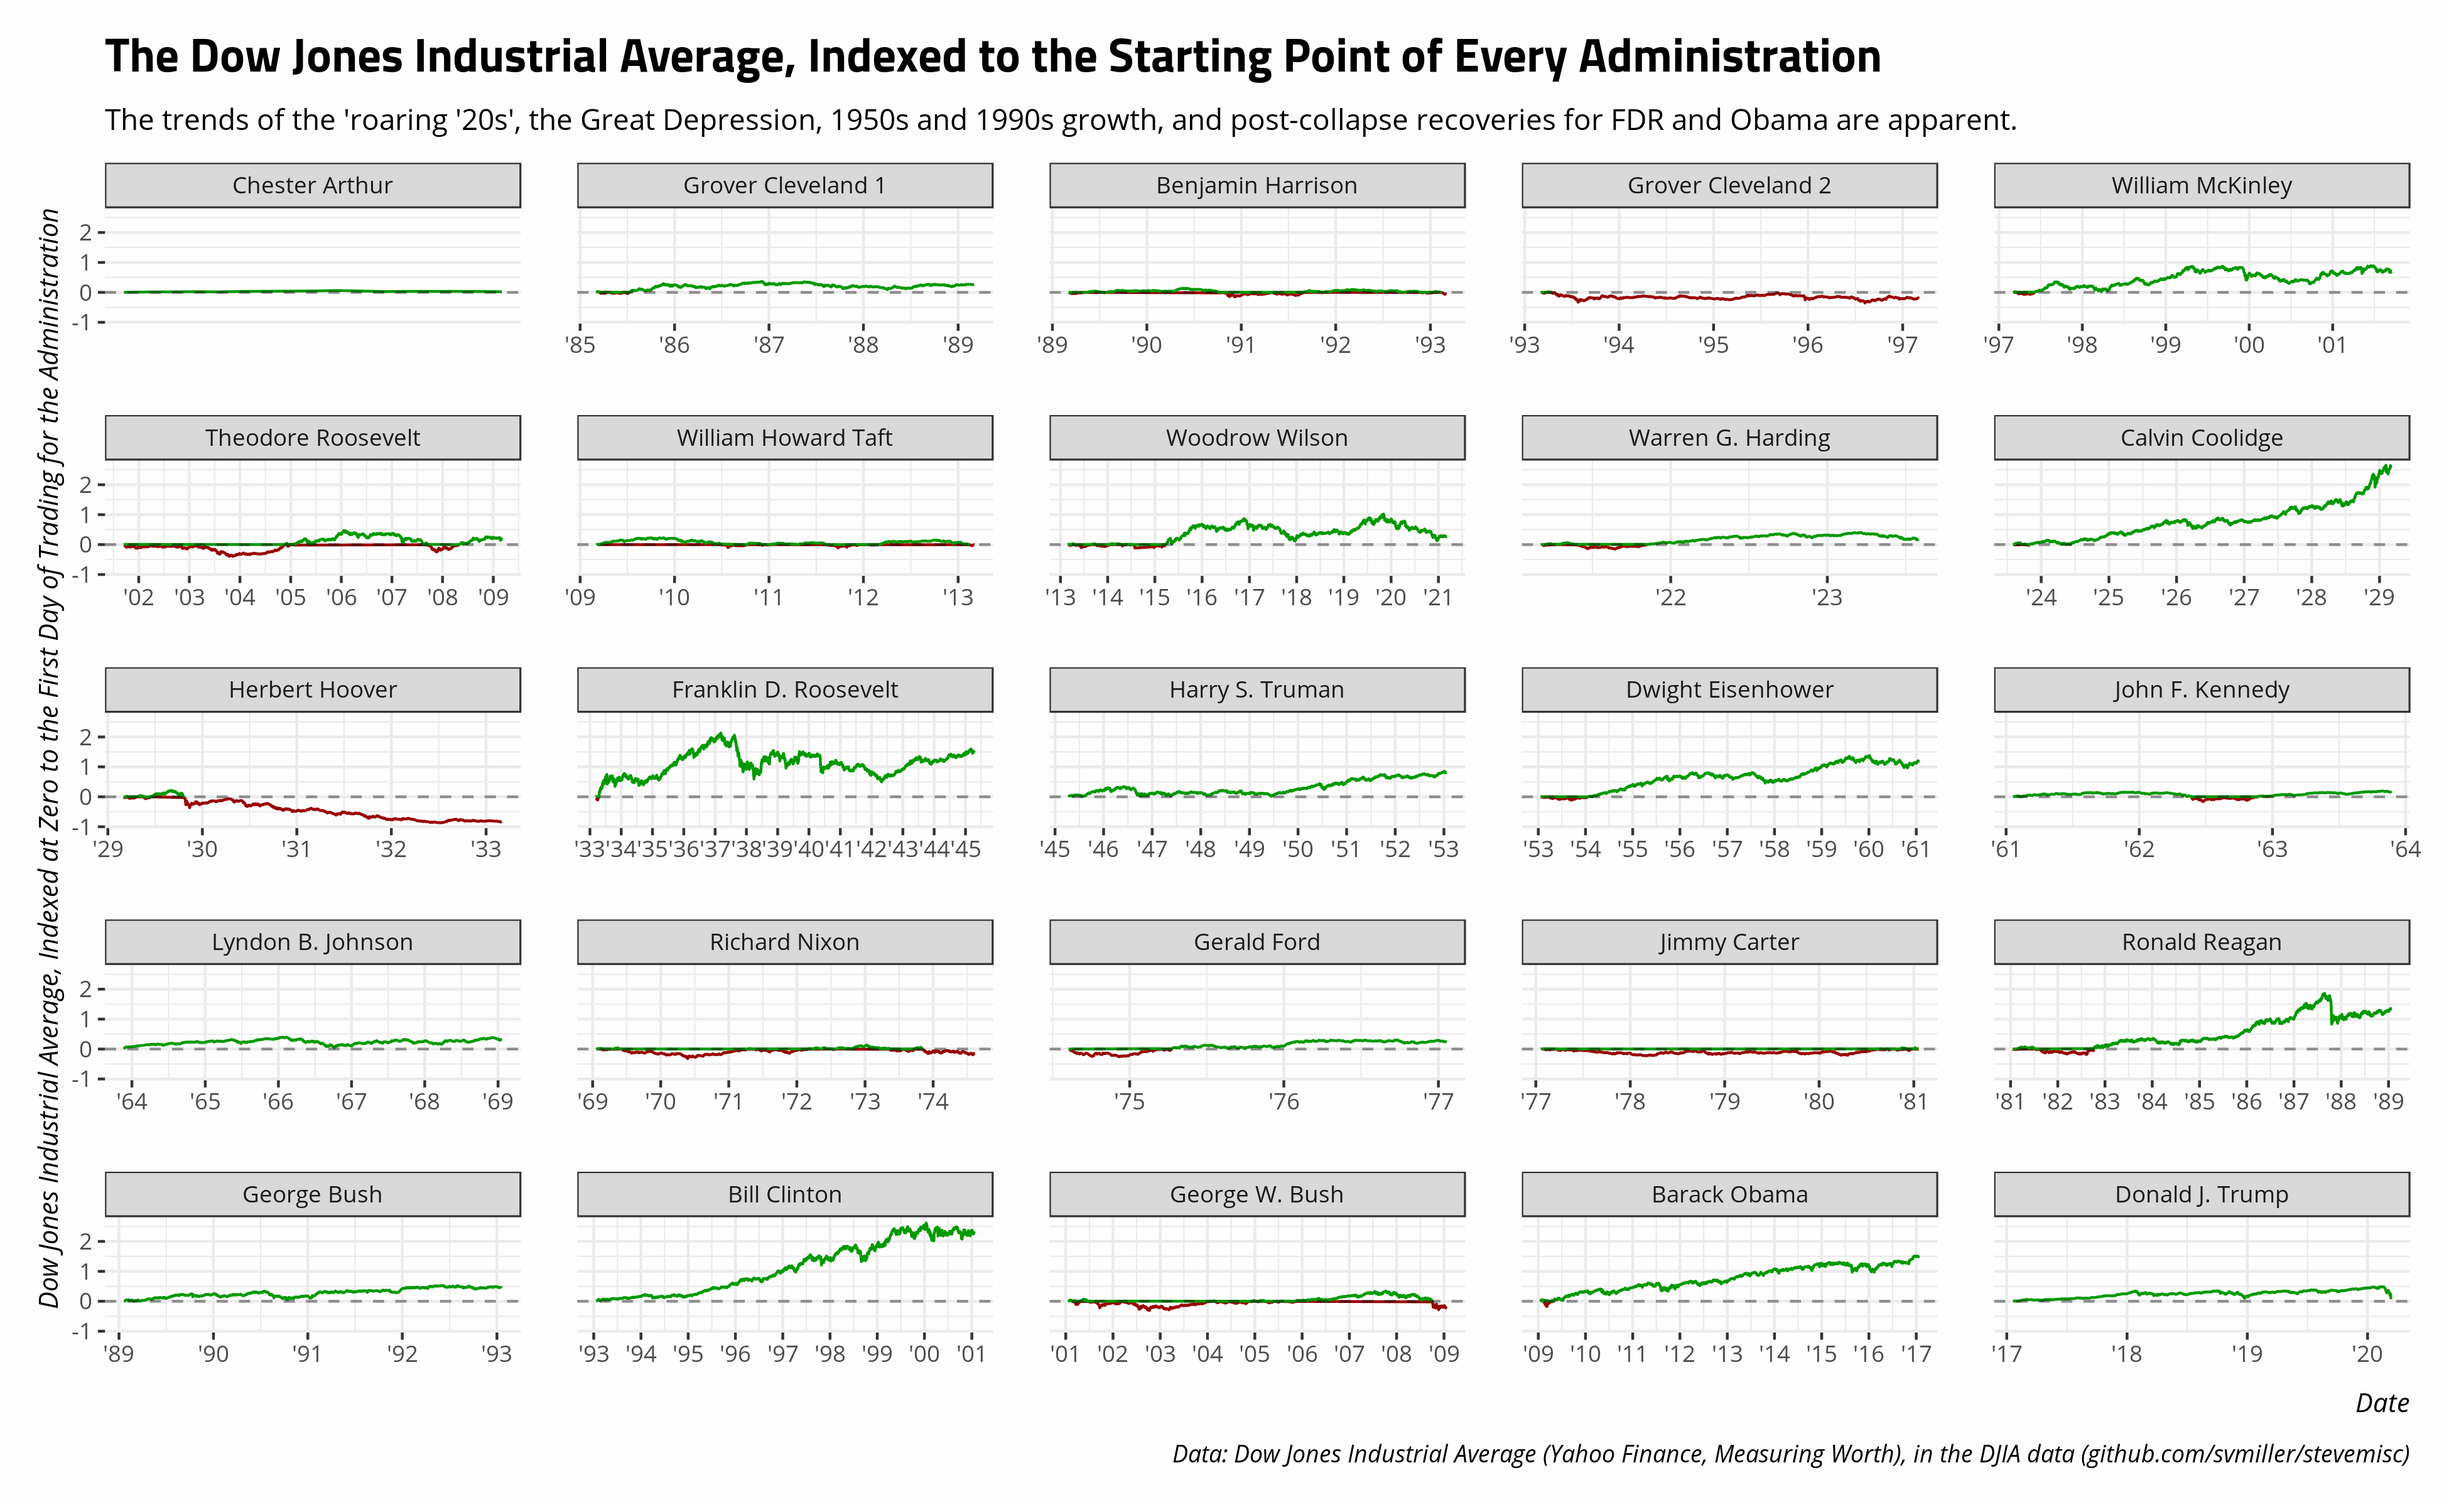
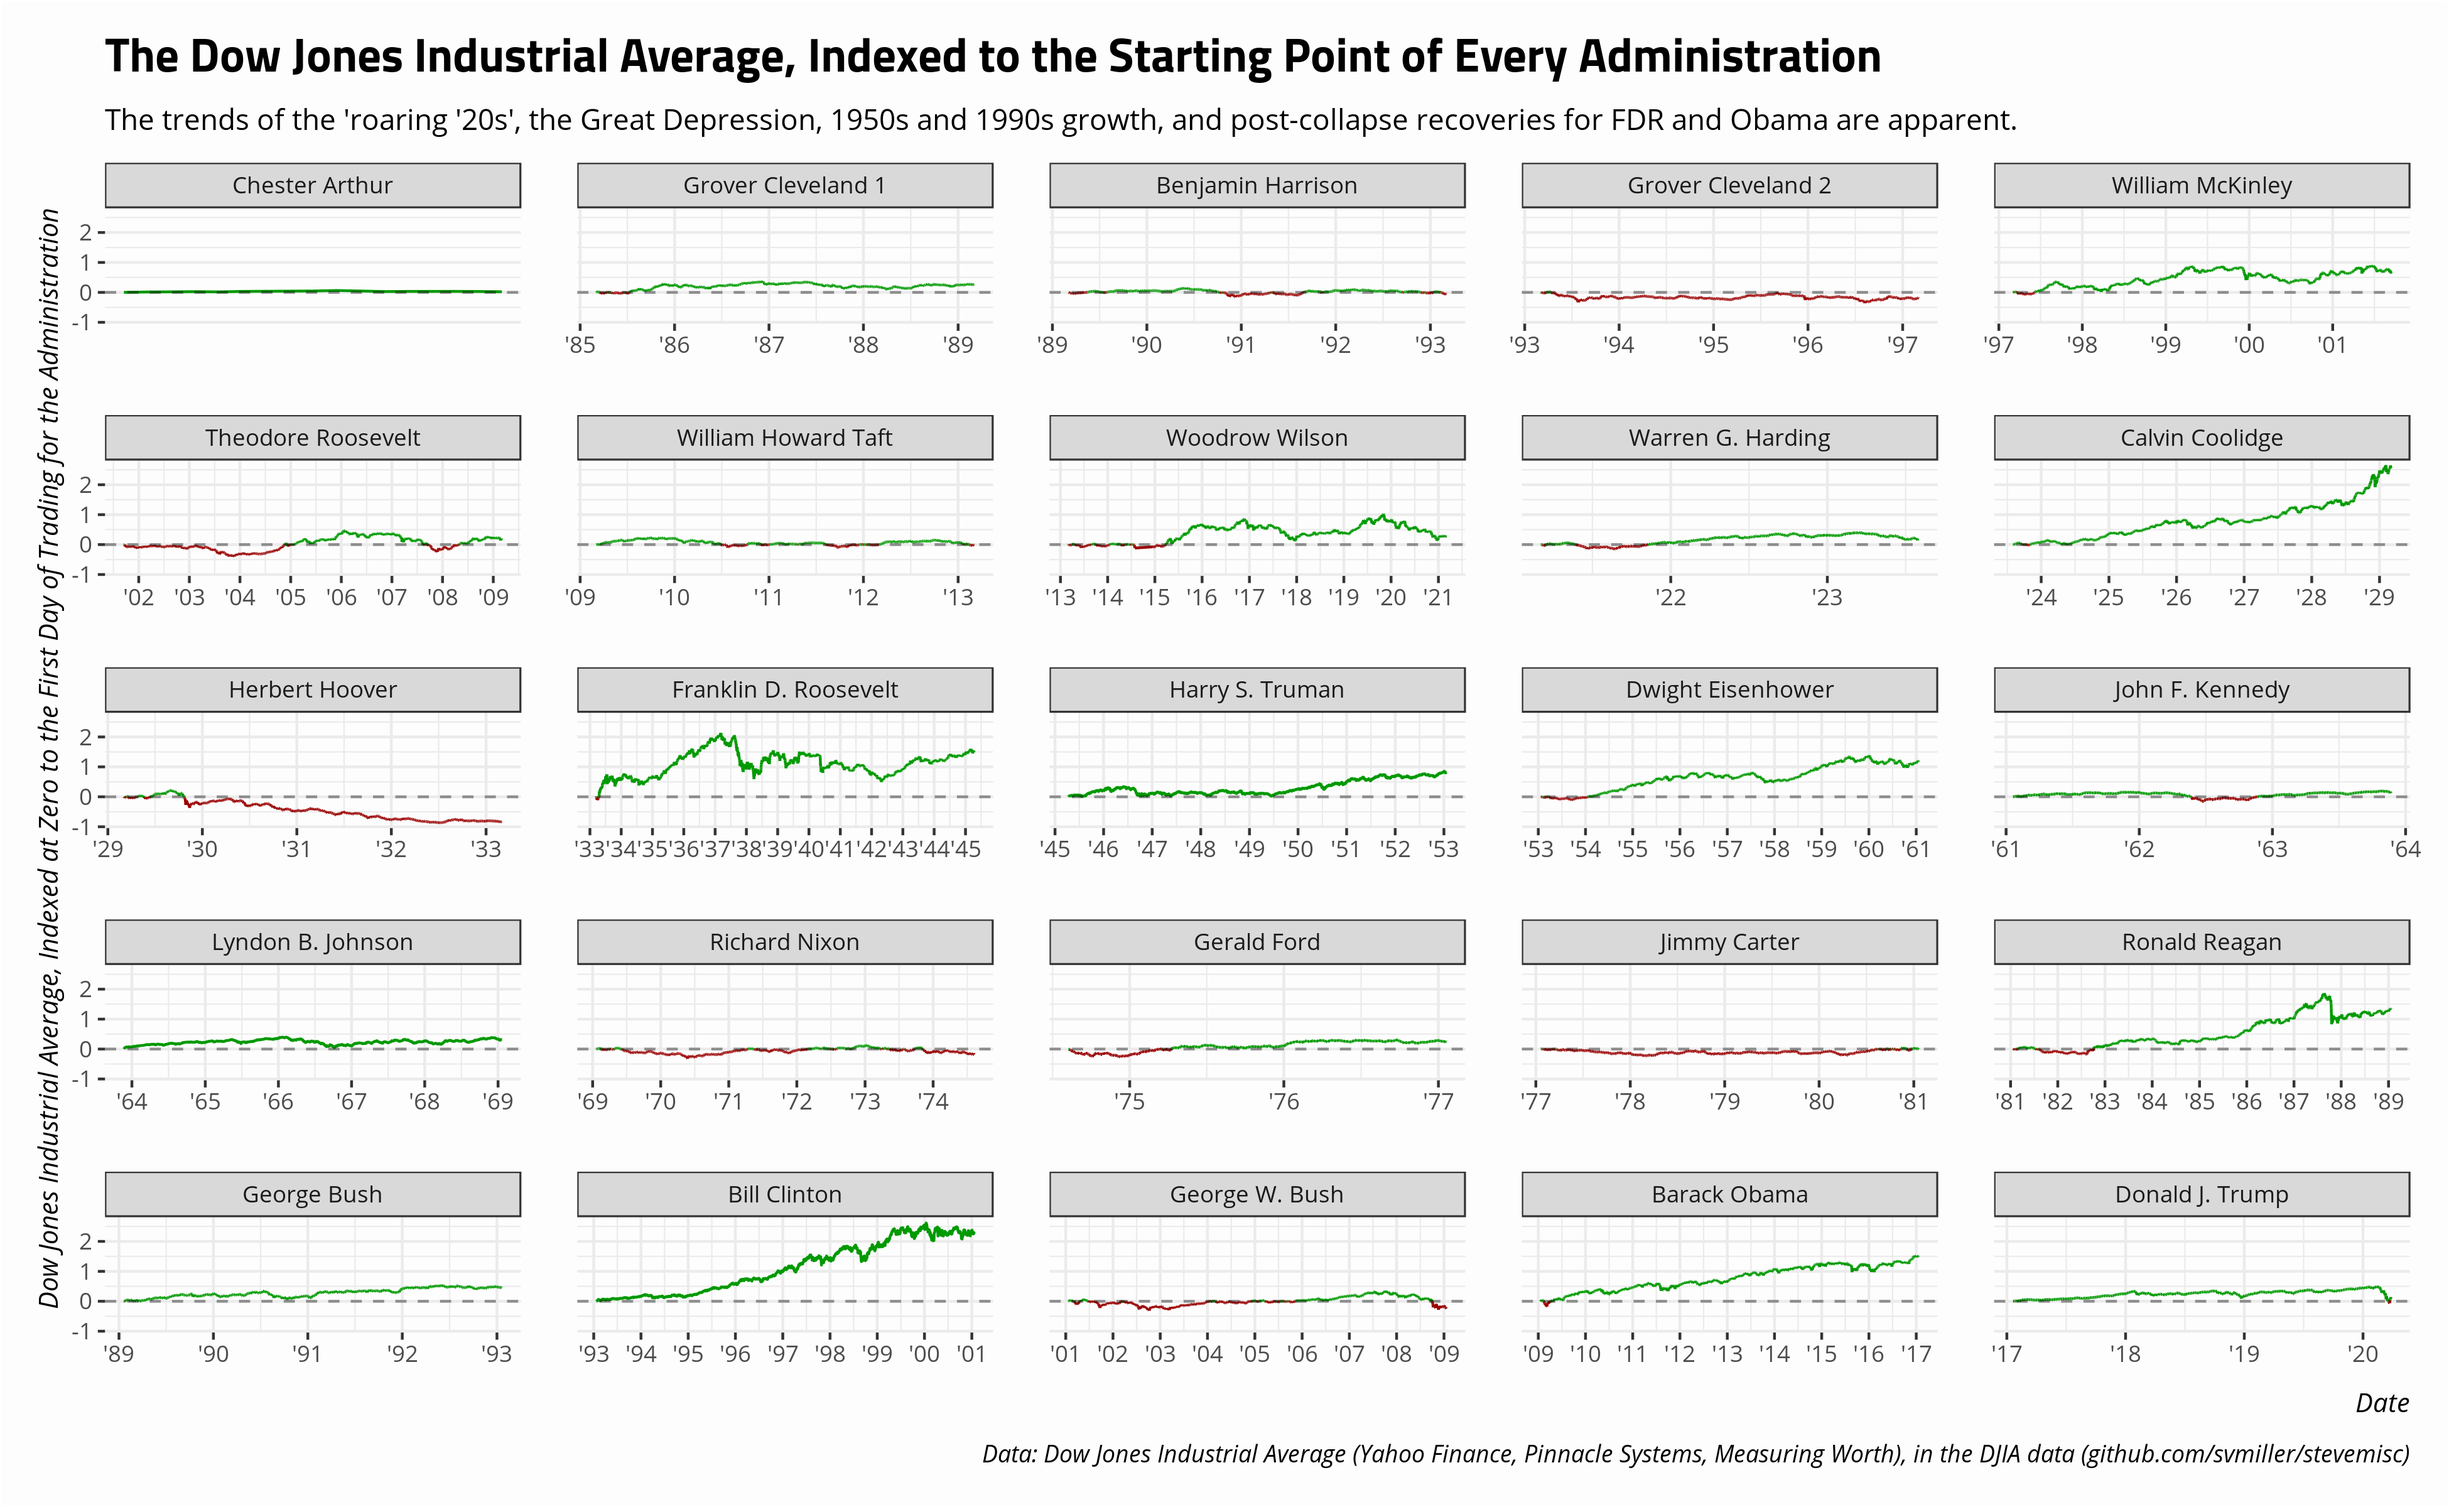
update

diff --git a/_posts/2020-03-12-dow-jones-no-good-very-bad-day.md b/_posts/2020-03-12-dow-jones-no-good-very-bad-day.md
@@ -19,7 +19,7 @@ image: "dow-jones-dude.jpg"
 
 {% include image.html url="/images/dow-jones-dude.jpg" caption="That feeling when you realize you're not going to retire until your 70s. (Photo: Spencer Platt/Getty Images)" width=400 align="right" %}
 
-*Last updated: March 27, 2020* 
+*Last updated: March 28, 2020* 
 
 [What he said](https://knowyourmeme.com/memes/shits-on-fire-yo).
 
@@ -77,21 +77,21 @@ Data %>%
   mutate(index = (djia/first(djia))-1) %>% 
   ungroup() %>%
   mutate(cat = ifelse(index < 0, "Negative", "Positive")) %>%
-  ggplot(.,aes(date, index,color=cat)) + 
+  ggplot(.,aes(date, index,color=(index < 0))) + 
   theme_steve_web() + post_bg() +
-  geom_line() +
+  geom_line(aes(group=1)) +
   geom_hline(yintercept = 0, linetype="dashed", alpha=0.4) +
   # I think '%y is the best I can do because of FDR's tenure.
   scale_x_date(date_labels = "'%y", 
                date_breaks = "1 year") +
   facet_wrap(~president, scales = "free_x") +
-  scale_color_manual(values=c("#990000", "#009900")) +
+  scale_color_manual(values=c("#009900", "#990000")) +
   theme(legend.position = "none") +
   labs(title = "The Dow Jones Industrial Average, Indexed to the Starting Point of Every Administration",
        subtitle = "The trends of the 'roaring '20s', the Great Depression, 1950s and 1990s growth, and post-collapse recoveries for FDR and Obama are apparent.",
        x = "Date",
        y = "Dow Jones Industrial Average, Indexed at Zero to the First Day of Trading for the Administration",
-       caption = "Data: Dow Jones Industrial Average (Yahoo Finance, Measuring Worth), in the DJIA data (github.com/svmiller/stevemisc)")
+       caption = "Data: Dow Jones Industrial Average (Yahoo Finance, Pinnacle Systems, Measuring Worth), in the DJIA data (github.com/svmiller/stevemisc)")
 ```
 
 ![plot of chunk dow-jones-industrial-average-by-presidency](/images/dow-jones-industrial-average-by-presidency-1.png)
@@ -137,7 +137,7 @@ Data %>%
    <td style="text-align:left;"> 1987-10-19 </td>
    <td style="text-align:left;"> Ronald Reagan </td>
    <td style="text-align:center;"> 1738.74 </td>
-   <td style="text-align:center;"> 2246.74 </td>
+   <td style="text-align:center;"> 2246.73 </td>
    <td style="text-align:center;"> -22.61 </td>
   </tr>
   <tr>
@@ -248,7 +248,7 @@ Data %>%
    <td style="text-align:left;"> 1987-10-19 </td>
    <td style="text-align:left;"> Ronald Reagan </td>
    <td style="text-align:center;"> 1738.74 </td>
-   <td style="text-align:center;"> 2246.74 </td>
+   <td style="text-align:center;"> 2246.73 </td>
    <td style="text-align:center;"> -22.61 </td>
    <td style="text-align:center;"> 1 </td>
   </tr>
@@ -319,8 +319,8 @@ Data %>%
   <tr>
    <td style="text-align:left;"> 1997-10-27 </td>
    <td style="text-align:left;"> Bill Clinton </td>
-   <td style="text-align:center;"> 7161.15 </td>
-   <td style="text-align:center;"> 7715.41 </td>
+   <td style="text-align:center;"> 7161.20 </td>
+   <td style="text-align:center;"> 7715.40 </td>
    <td style="text-align:center;"> -7.18 </td>
    <td style="text-align:center;"> 20 </td>
   </tr>
@@ -346,7 +346,7 @@ Data %>%
    <td style="text-align:center;"> 576.93 </td>
    <td style="text-align:center;"> 611.88 </td>
    <td style="text-align:center;"> -5.71 </td>
-   <td style="text-align:center;"> 49 </td>
+   <td style="text-align:center;"> 48 </td>
   </tr>
   <tr>
    <td style="text-align:left;"> 1946-09-03 </td>
@@ -386,7 +386,7 @@ Data %>%
    <td style="text-align:center;"> 35.89 </td>
    <td style="text-align:center;"> 37.44 </td>
    <td style="text-align:center;"> -4.15 </td>
-   <td style="text-align:center;"> 151 </td>
+   <td style="text-align:center;"> 154 </td>
   </tr>
   <tr>
    <td style="text-align:left;"> 1886-05-17 </td>
@@ -394,7 +394,15 @@ Data %>%
    <td style="text-align:center;"> 35.11 </td>
    <td style="text-align:center;"> 36.59 </td>
    <td style="text-align:center;"> -4.05 </td>
-   <td style="text-align:center;"> 168 </td>
+   <td style="text-align:center;"> 172 </td>
+  </tr>
+  <tr>
+   <td style="text-align:left;"> 1921-06-20 </td>
+   <td style="text-align:left;"> Warren G. Harding </td>
+   <td style="text-align:center;"> 64.90 </td>
+   <td style="text-align:center;"> 67.57 </td>
+   <td style="text-align:center;"> -3.95 </td>
+   <td style="text-align:center;"> 186 </td>
   </tr>
   <tr>
    <td style="text-align:left;"> 1974-11-18 </td>
@@ -402,15 +410,7 @@ Data %>%
    <td style="text-align:center;"> 624.92 </td>
    <td style="text-align:center;"> 647.61 </td>
    <td style="text-align:center;"> -3.50 </td>
-   <td style="text-align:center;"> 258 </td>
-  </tr>
-  <tr>
-   <td style="text-align:left;"> 1921-06-20 </td>
-   <td style="text-align:left;"> Warren G. Harding </td>
-   <td style="text-align:center;"> 64.90 </td>
-   <td style="text-align:center;"> 67.25 </td>
-   <td style="text-align:center;"> -3.49 </td>
-   <td style="text-align:center;"> 259 </td>
+   <td style="text-align:center;"> 265 </td>
   </tr>
   <tr>
    <td style="text-align:left;"> 1973-11-26 </td>
@@ -418,7 +418,7 @@ Data %>%
    <td style="text-align:center;"> 824.95 </td>
    <td style="text-align:center;"> 854.00 </td>
    <td style="text-align:center;"> -3.40 </td>
-   <td style="text-align:center;"> 277 </td>
+   <td style="text-align:center;"> 283 </td>
   </tr>
   <tr>
    <td style="text-align:left;"> 1979-10-09 </td>
@@ -426,7 +426,7 @@ Data %>%
    <td style="text-align:center;"> 857.59 </td>
    <td style="text-align:center;"> 884.04 </td>
    <td style="text-align:center;"> -2.99 </td>
-   <td style="text-align:center;"> 379 </td>
+   <td style="text-align:center;"> 389 </td>
   </tr>
   <tr>
    <td style="text-align:left;"> 1966-10-03 </td>
@@ -434,7 +434,7 @@ Data %>%
    <td style="text-align:center;"> 757.96 </td>
    <td style="text-align:center;"> 774.22 </td>
    <td style="text-align:center;"> -2.10 </td>
-   <td style="text-align:center;"> 951 </td>
+   <td style="text-align:center;"> 971 </td>
   </tr>
   <tr>
    <td style="text-align:left;"> 1885-02-27 </td>
@@ -442,7 +442,7 @@ Data %>%
    <td style="text-align:center;"> 31.77 </td>
    <td style="text-align:center;"> 32.33 </td>
    <td style="text-align:center;"> -1.75 </td>
-   <td style="text-align:center;"> 1431 </td>
+   <td style="text-align:center;"> 1438 </td>
   </tr>
 </tbody>
 </table>
@@ -543,7 +543,7 @@ You could also extend this approach to look at the worst 30-day trading windows 
 You can also drive the point home about how precarious our current situation is by flipping one line of script in the above R code that calculates the worst individual trading days in Dow Jones history. See the above code that reads? `arrange(percchange)`? Replace it with `arrange(-percchange)` to get the best individual days in Dow history. Here, we'll select the top 20.
 
 <table id="stevetable">
-<caption>The 20 Best Trading Days in Dow Jones History, Feb. 16, 1885 to March 12, 2020</caption>
+<caption>The 20 Best Trading Days in Dow Jones History, Feb. 16, 1885 to the Present</caption>
  <thead>
   <tr>
    <th style="text-align:left;"> Date </th>
@@ -699,5 +699,99 @@ You can also drive the point home about how precarious our current situation is 
 
 It's worth saying growth in trading is ideally supposed to be incremental over the long-run. Huge volatility in trading runs both ways, never seeming to coincide with something good on the balance.
 
+### Update for March 28, 2020
+
+You can also use these data to assess just how confident we should be in magnitude gains from Monday to Friday. For example, [multiple](https://www.barrons.com/articles/dow-jones-industrial-average-has-best-week-since-1938-time-to-go-shopping-for-stocks-51585354856) [outlets](https://www.forbes.com/sites/sergeiklebnikov/2020/03/27/stocks-have-best-week-since-1938-after-trump-signs-2-trillion-coronavirus-stimulus-bill/#6e69b2be5ae4) are claiming that this week is the best week for trading since 1938, notwithstanding the loss on Friday. Consider this summary from Barrons:
+
+> After the index’s eighth losing Friday in nine weeks, the Dow ended the week up 2,462.80 points, or 12.84%, to 21,636.78—its best week since 1938. The S&P 500 index gained 10.26%, to 2,541.47, and the Nasdaq Composite rose 9.05%, to 7502.38.
+
+Here's how you can assess that claim with some context (check [the file in the `_source` directory](https://github.com/svmiller/svmiller.github.io/blob/master/_source/2020-03-12-dow-jones-no-good-very-bad-day.Rmd) for full code).
+
+<table id="stevetable">
+<caption>The 10 Best Trading Weeks in Dow Jones History, Feb. 16, 1885 to the Present</caption>
+ <thead>
+  <tr>
+   <th style="text-align:left;"> President </th>
+   <th style="text-align:left;"> Week Starting </th>
+   <th style="text-align:center;"> DJIA (Start of the Week) </th>
+   <th style="text-align:center;"> DJIA (Close, Last Day of the Week) </th>
+   <th style="text-align:center;"> % Change </th>
+  </tr>
+ </thead>
+<tbody>
+  <tr>
+   <td style="text-align:left;"> Herbert Hoover </td>
+   <td style="text-align:left;"> 1932-08-01 </td>
+   <td style="text-align:center;"> 54.26 </td>
+   <td style="text-align:center;"> 62.60 </td>
+   <td style="text-align:center;"> 15.37 </td>
+  </tr>
+  <tr>
+   <td style="text-align:left;"> Franklin D. Roosevelt </td>
+   <td style="text-align:left;"> 1938-06-20 </td>
+   <td style="text-align:center;"> 113.23 </td>
+   <td style="text-align:center;"> 129.06 </td>
+   <td style="text-align:center;"> 13.98 </td>
+  </tr>
+  <tr>
+   <td style="text-align:left;"> Donald J. Trump </td>
+   <td style="text-align:left;"> 2020-03-23 </td>
+   <td style="text-align:center;"> 19173.98 </td>
+   <td style="text-align:center;"> 21636.78 </td>
+   <td style="text-align:center;"> 12.84 </td>
+  </tr>
+  <tr>
+   <td style="text-align:left;"> Franklin D. Roosevelt </td>
+   <td style="text-align:left;"> 1933-03-13 </td>
+   <td style="text-align:center;"> 53.84 </td>
+   <td style="text-align:center;"> 60.73 </td>
+   <td style="text-align:center;"> 12.80 </td>
+  </tr>
+  <tr>
+   <td style="text-align:left;"> Herbert Hoover </td>
+   <td style="text-align:left;"> 1932-07-25 </td>
+   <td style="text-align:center;"> 47.84 </td>
+   <td style="text-align:center;"> 53.89 </td>
+   <td style="text-align:center;"> 12.65 </td>
+  </tr>
+  <tr>
+   <td style="text-align:left;"> Herbert Hoover </td>
+   <td style="text-align:left;"> 1931-10-05 </td>
+   <td style="text-align:center;"> 92.77 </td>
+   <td style="text-align:center;"> 104.46 </td>
+   <td style="text-align:center;"> 12.60 </td>
+  </tr>
+  <tr>
+   <td style="text-align:left;"> Gerald Ford </td>
+   <td style="text-align:left;"> 1974-10-07 </td>
+   <td style="text-align:center;"> 584.56 </td>
+   <td style="text-align:center;"> 658.17 </td>
+   <td style="text-align:center;"> 12.59 </td>
+  </tr>
+  <tr>
+   <td style="text-align:left;"> Franklin D. Roosevelt </td>
+   <td style="text-align:left;"> 1933-10-23 </td>
+   <td style="text-align:center;"> 83.64 </td>
+   <td style="text-align:center;"> 93.22 </td>
+   <td style="text-align:center;"> 11.45 </td>
+  </tr>
+  <tr>
+   <td style="text-align:left;"> Theodore Roosevelt </td>
+   <td style="text-align:left;"> 1903-08-10 </td>
+   <td style="text-align:center;"> 34.71 </td>
+   <td style="text-align:center;"> 38.68 </td>
+   <td style="text-align:center;"> 11.44 </td>
+  </tr>
+  <tr>
+   <td style="text-align:left;"> George W. Bush </td>
+   <td style="text-align:left;"> 2008-10-27 </td>
+   <td style="text-align:center;"> 8378.95 </td>
+   <td style="text-align:center;"> 9325.01 </td>
+   <td style="text-align:center;"> 11.29 </td>
+  </tr>
+</tbody>
+</table>
+
+A recurring trend in these posts is that I'm skeptical that many of the boastful claims about the performance of the Dow Jones industrial average of late is wishful thinking absent any type of context of the other times the Dow Jones had great days or great weeks. It's akin to [Homer Simpson chasing his roast pig](https://www.youtube.com/watch?v=MWvevkE0kAI). "It's still good! It's still good!" Buddy, it might be gone.
 
 
